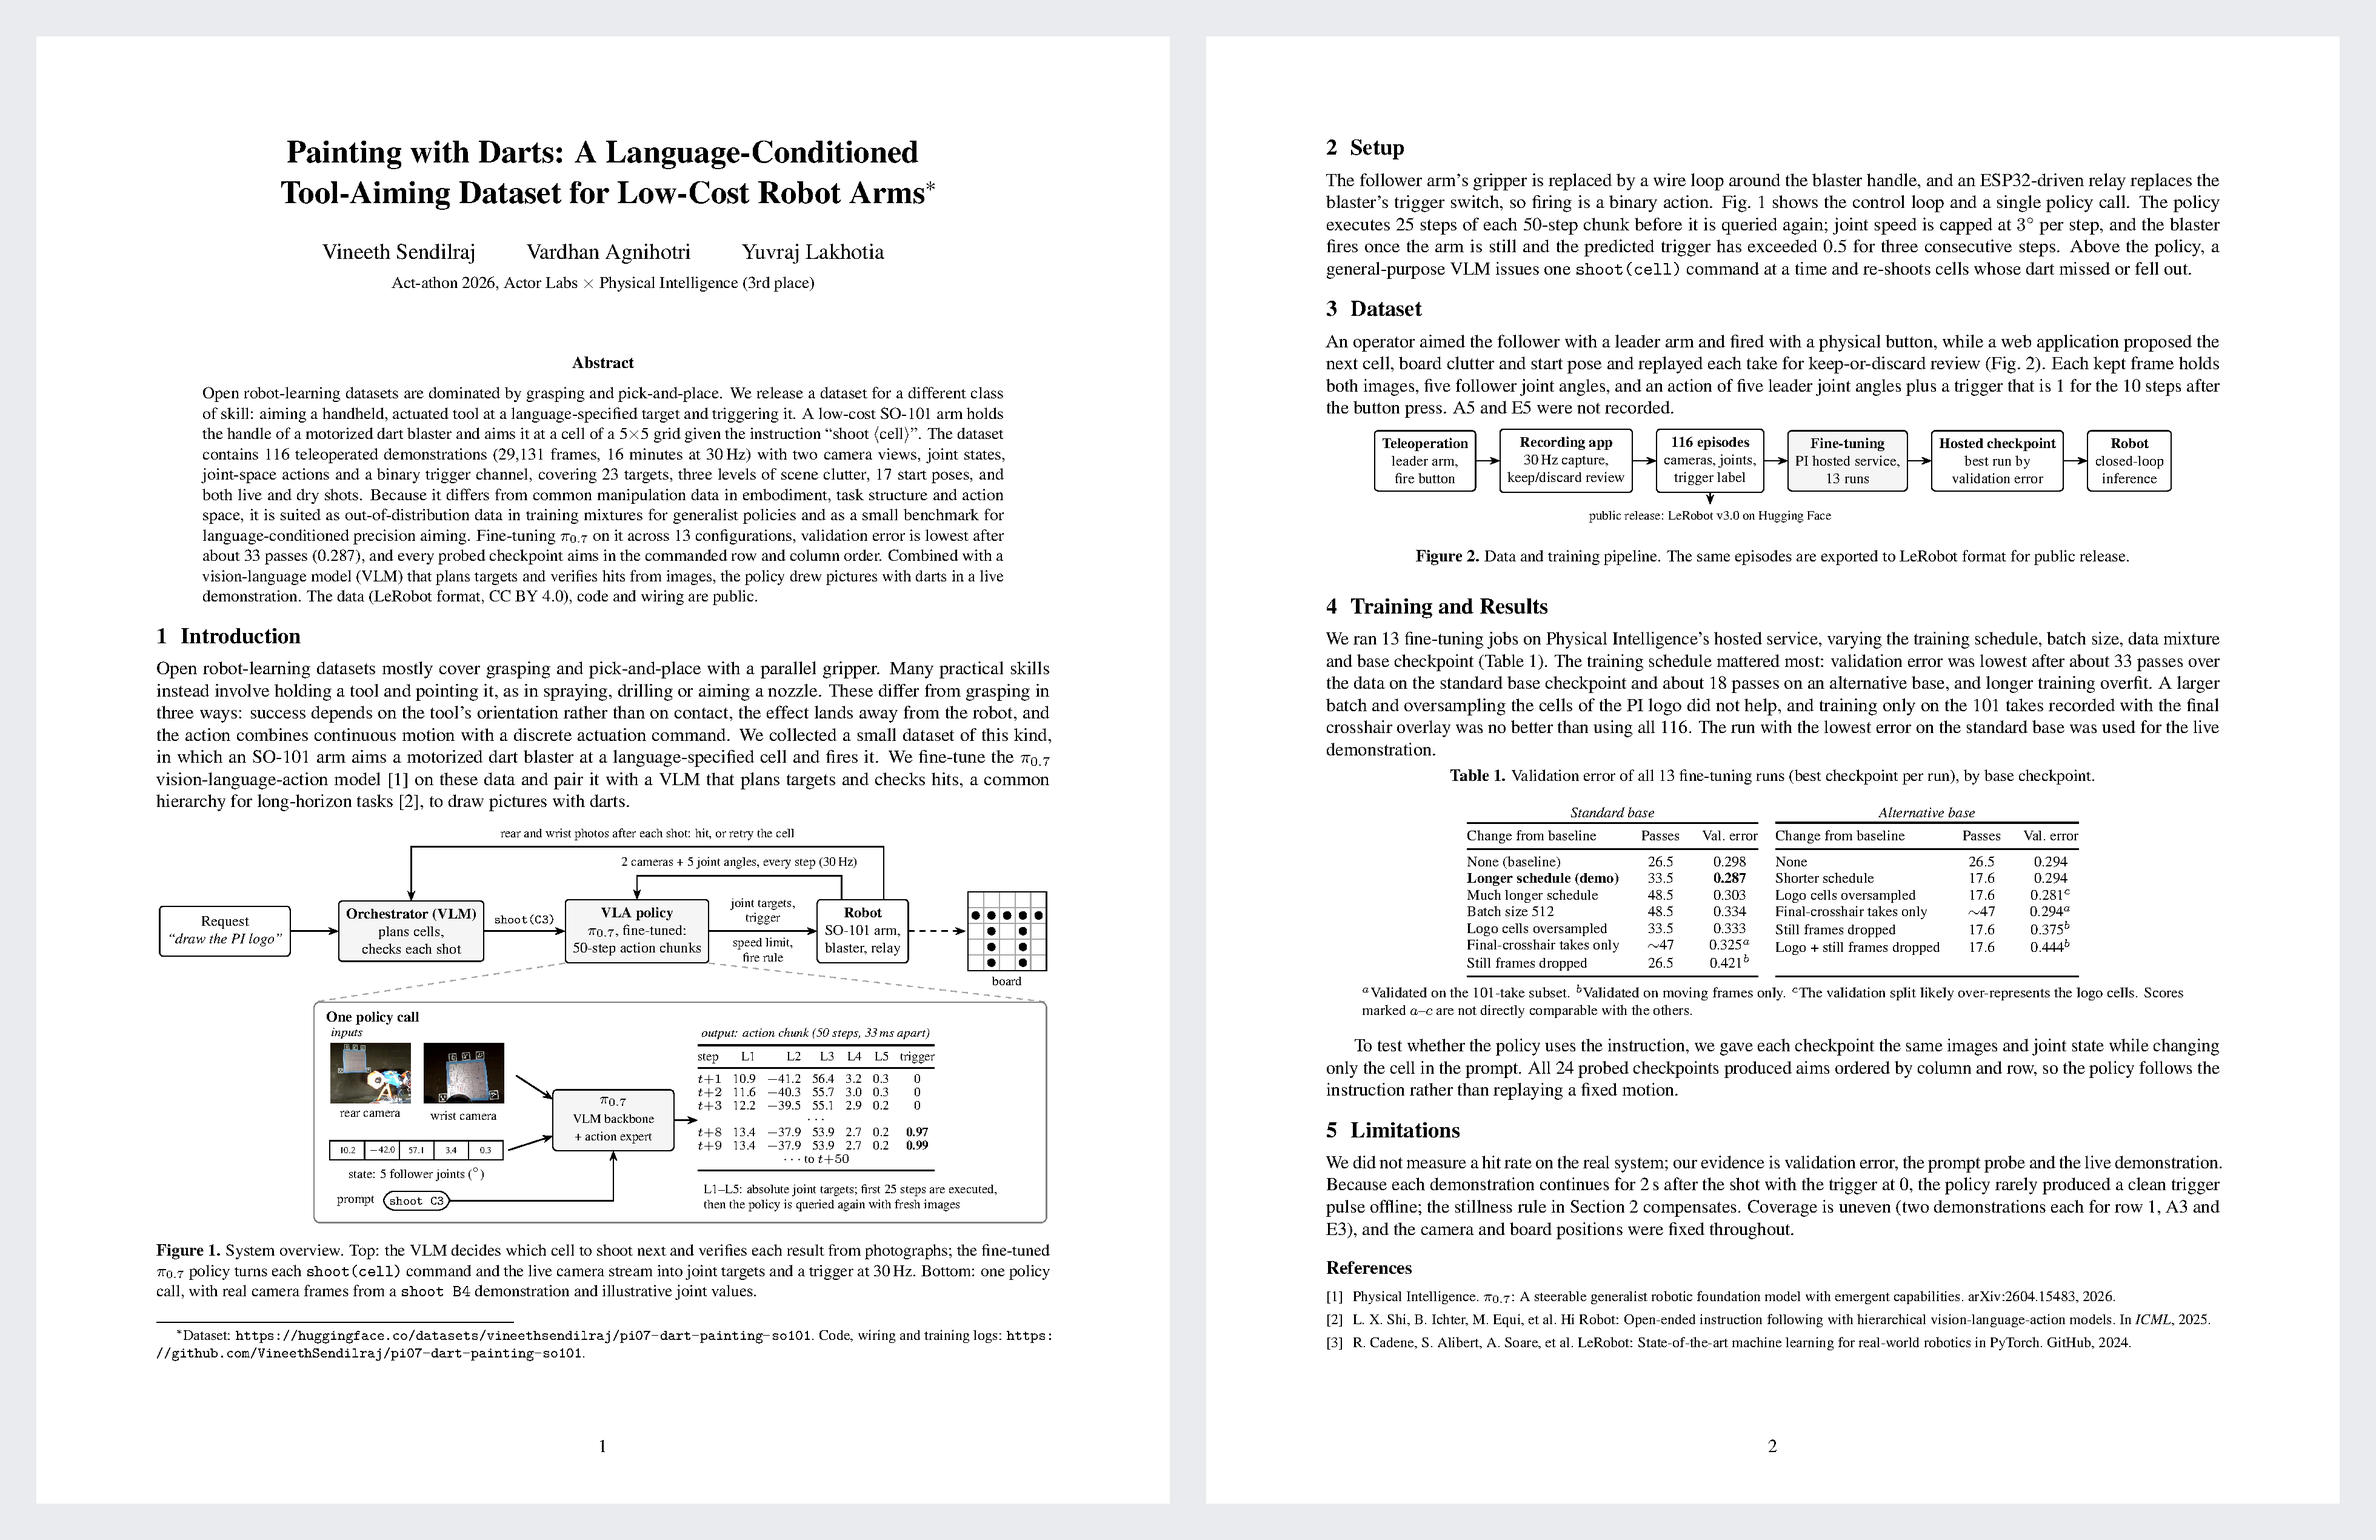
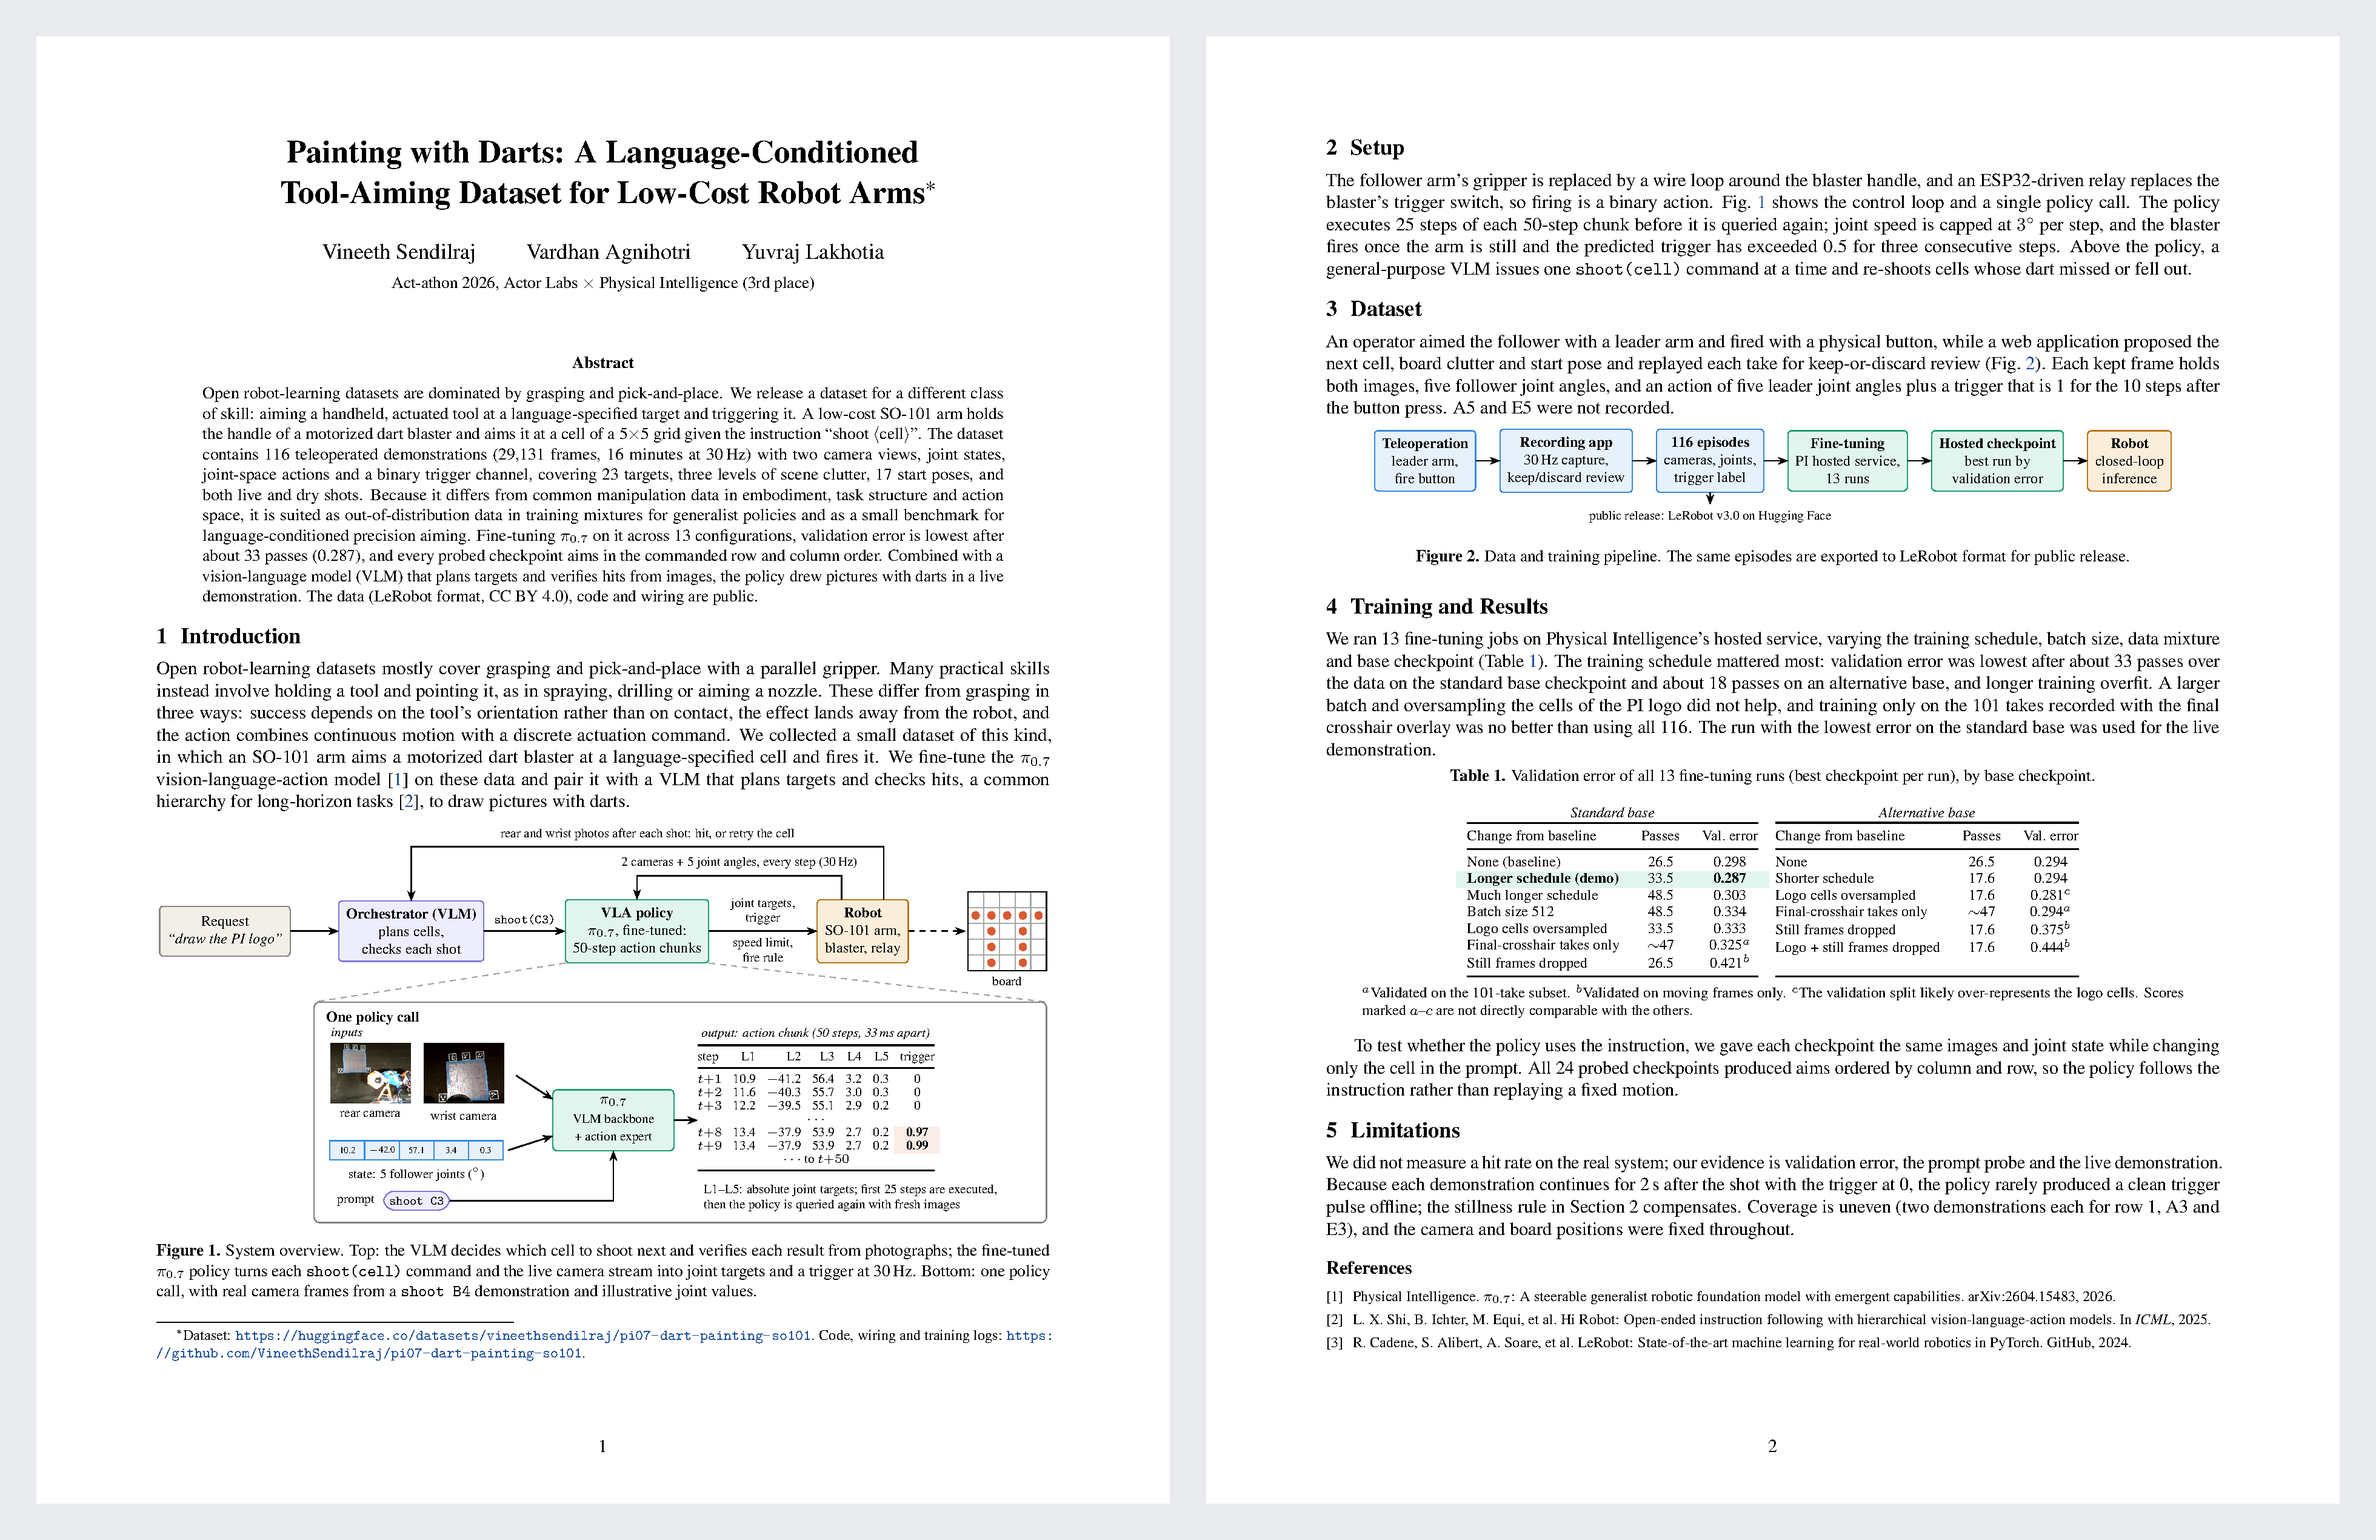
Report: muted color palette for figures, highlighted best run and trigger cells, colored links.

diff --git a/docs/report/report.tex b/docs/report/report.tex
@@ -6,7 +6,15 @@
 \usepackage{microtype}
 \usepackage{graphicx}
 \usepackage{booktabs}
-\usepackage[hidelinks]{hyperref}
+\usepackage[table]{xcolor}
+\usepackage[colorlinks=true,linkcolor=linkblue,citecolor=linkblue,urlcolor=linkblue]{hyperref}
+\definecolor{linkblue}{HTML}{1F4E9A}
+\definecolor{reqF}{HTML}{F1EFE8}\definecolor{reqD}{HTML}{888780}
+\definecolor{vlmF}{HTML}{EEEDFE}\definecolor{vlmD}{HTML}{7F77DD}
+\definecolor{vlaF}{HTML}{E1F5EE}\definecolor{vlaD}{HTML}{1D9E75}
+\definecolor{robF}{HTML}{FAEEDA}\definecolor{robD}{HTML}{BA7517}
+\definecolor{inF}{HTML}{E6F1FB}\definecolor{inD}{HTML}{378ADD}
+\definecolor{trigF}{HTML}{FAECE7}\definecolor{trigD}{HTML}{D85A30}
 \usepackage[font=small,labelfont=bf,labelsep=period]{caption}
 \usepackage{titlesec}
 \usepackage{tikz}
@@ -45,17 +53,17 @@ Open robot-learning datasets mostly cover grasping and pick-and-place with a par
 \centering
 \begin{tikzpicture}[x=1cm,y=1cm]
 % ---- top row
-\node[box] (goal) at (1.2,0) {Request\\\textit{``draw the PI logo''}};
-\node[box, fill=black!4] (llm) at (4.75,0) {\textbf{Orchestrator (VLM)}\\plans cells,\\checks each shot};
-\node[box, fill=black!4] (vla) at (9.05,0) {\textbf{VLA policy}\\$\pi_{0.7}$, fine-tuned:\\50-step action chunks};
-\node[box] (robot) at (13.35,0) {\textbf{Robot}\\SO-101 arm,\\blaster, relay};
+\node[box, fill=reqF, draw=reqD] (goal) at (1.2,0) {Request\\\textit{``draw the PI logo''}};
+\node[box, fill=vlmF, draw=vlmD] (llm) at (4.75,0) {\textbf{Orchestrator (VLM)}\\plans cells,\\checks each shot};
+\node[box, fill=vlaF, draw=vlaD] (vla) at (9.05,0) {\textbf{VLA policy}\\$\pi_{0.7}$, fine-tuned:\\50-step action chunks};
+\node[box, fill=robF, draw=robD] (robot) at (13.35,0) {\textbf{Robot}\\SO-101 arm,\\blaster, relay};
 \draw[arr] (goal) -- (llm);
 \draw[arr] (llm) -- node[lab, above] {\texttt{shoot(C3)}} (vla);
 \draw[arr] (vla) -- node[lab, above] {joint targets,\\trigger} node[lab, below] {speed limit,\\fire rule} (robot);
 % ---- board (darts on the PI-logo cells)
 \begin{scope}[shift={(15.35,-0.75)}]
 \draw[black!35] (0,0) grid[step=0.3] (1.5,1.5); \draw (0,0) rectangle (1.5,1.5);
-\foreach \c/\r in {0/1,1/1,2/1,3/1,4/1,1/2,1/3,1/4,3/2,3/3,3/4} \fill (0.15+0.3*\c,1.35-0.3*\r) circle (2.1pt);
+\foreach \c/\r in {0/1,1/1,2/1,3/1,4/1,1/2,1/3,1/4,3/2,3/3,3/4} \fill[trigD] (0.15+0.3*\c,1.35-0.3*\r) circle (2.1pt);
 \node[lab] at (0.75,-0.2) {board};
 \end{scope}
 \draw[arr, dashed] (robot.east) -- (15.3,0);
@@ -74,14 +82,14 @@ Open robot-learning datasets mostly cover grasping and pick-and-place with a par
 \node[inner sep=0pt, anchor=north west] at (4.98,-2.12) {\includegraphics[height=1.15cm]{figs/wrist.jpg}};
 \node[lab, anchor=north] at (5.75,-3.3) {wrist camera};
 \foreach \v [count=\k] in {10.2,$-$42.0,57.1,3.4,0.3} {
-  \draw ({3.2+0.66*(\k-1)},-4.35) rectangle ++(0.66,0.36);
+  \draw[draw=inD, fill=inF] ({3.2+0.66*(\k-1)},-4.35) rectangle ++(0.66,0.36);
   \node[font=\tiny] at ({3.53+0.66*(\k-1)},-4.17) {\v};
 }
 \node[lab, anchor=north] at (4.85,-4.38) {state: 5 follower joints ($^\circ$)};
-\node[draw, rounded corners=6pt, font=\scriptsize\ttfamily, inner sep=3pt] (prompt) at (4.85,-5.13) {shoot C3};
+\node[draw=vlmD, fill=vlmF, rounded corners=6pt, font=\scriptsize\ttfamily, inner sep=3pt] (prompt) at (4.85,-5.13) {shoot C3};
 \node[lab, anchor=east] at (prompt.west) {prompt\,};
 % model
-\node[box, fill=black!4, minimum width=2.3cm] (pi) at (8.6,-3.6) {$\pi_{0.7}$\\[1pt]{\scriptsize VLM backbone}\\{\scriptsize + action expert}};
+\node[box, fill=vlaF, draw=vlaD, minimum width=2.3cm] (pi) at (8.6,-3.6) {$\pi_{0.7}$\\[1pt]{\scriptsize VLM backbone}\\{\scriptsize + action expert}};
 \draw[arr] (6.75,-2.75) -- ([yshift=4mm]pi.west);
 \draw[arr] (6.6,-4.17) -- ([yshift=-3mm]pi.west);
 \draw[arr] (prompt.east) -| (pi.south);
@@ -96,8 +104,8 @@ $t{+}1$ & 10.9 & $-$41.2 & 56.4 & 3.2 & 0.3 & 0 \\
 $t{+}2$ & 11.6 & $-$40.3 & 55.7 & 3.0 & 0.3 & 0 \\
 $t{+}3$ & 12.2 & $-$39.5 & 55.1 & 2.9 & 0.2 & 0 \\
 \multicolumn{7}{c}{$\cdots$} \\
-$t{+}8$ & 13.4 & $-$37.9 & 53.9 & 2.7 & 0.2 & \textbf{0.97} \\
-$t{+}9$ & 13.4 & $-$37.9 & 53.9 & 2.7 & 0.2 & \textbf{0.99} \\
+$t{+}8$ & 13.4 & $-$37.9 & 53.9 & 2.7 & 0.2 & \cellcolor{trigF}\textbf{0.97} \\
+$t{+}9$ & 13.4 & $-$37.9 & 53.9 & 2.7 & 0.2 & \cellcolor{trigF}\textbf{0.99} \\
 \multicolumn{7}{c}{$\cdots$ to $t{+}50$} \\
 \bottomrule
 \end{tabular}};
@@ -120,12 +128,12 @@ An operator aimed the follower with a leader arm and fired with a physical butto
 \begin{figure}[!ht]
 \centering
 \begin{tikzpicture}
-\node[box] (tele) {\textbf{Teleoperation}\\leader arm,\\fire button};
-\node[box, right=0.45cm of tele] (rec) {\textbf{Recording app}\\30\,Hz capture,\\keep/discard review};
-\node[box, right=0.45cm of rec] (eps) {\textbf{116 episodes}\\cameras, joints,\\trigger label};
-\node[box, fill=black!4, right=0.45cm of eps] (ft) {\textbf{Fine-tuning}\\PI hosted service,\\13 runs};
-\node[box, right=0.45cm of ft] (ckpt) {\textbf{Hosted checkpoint}\\best run by\\validation error};
-\node[box, right=0.45cm of ckpt] (inf) {\textbf{Robot}\\closed-loop\\inference};
+\node[box, fill=inF, draw=inD] (tele) {\textbf{Teleoperation}\\leader arm,\\fire button};
+\node[box, fill=inF, draw=inD, right=0.45cm of tele] (rec) {\textbf{Recording app}\\30\,Hz capture,\\keep/discard review};
+\node[box, fill=inF, draw=inD, right=0.45cm of rec] (eps) {\textbf{116 episodes}\\cameras, joints,\\trigger label};
+\node[box, fill=vlaF, draw=vlaD, right=0.45cm of eps] (ft) {\textbf{Fine-tuning}\\PI hosted service,\\13 runs};
+\node[box, fill=vlaF, draw=vlaD, right=0.45cm of ft] (ckpt) {\textbf{Hosted checkpoint}\\best run by\\validation error};
+\node[box, fill=robF, draw=robD, right=0.45cm of ckpt] (inf) {\textbf{Robot}\\closed-loop\\inference};
 \node[lab, below=0.22cm of eps] (hf) {public release: LeRobot v3.0 on Hugging Face};
 \draw[arr] (tele) -- (rec); \draw[arr] (rec) -- (eps); \draw[arr] (eps) -- (ft);
 \draw[arr] (ft) -- (ckpt); \draw[arr] (ckpt) -- (inf); \draw[arr] (eps) -- (hf);
@@ -148,7 +156,7 @@ We ran 13 fine-tuning jobs on Physical Intelligence's hosted service, varying th
 Change from baseline & Passes & Val.\ error \\
 \midrule
 None (baseline) & 26.5 & 0.298 \\
-\textbf{Longer schedule (demo)} & 33.5 & \textbf{0.287} \\
+\rowcolor{vlaF}\textbf{Longer schedule (demo)} & 33.5 & \textbf{0.287} \\
 Much longer schedule & 48.5 & 0.303 \\
 Batch size 512 & 48.5 & 0.334 \\
 Logo cells oversampled & 33.5 & 0.333 \\
